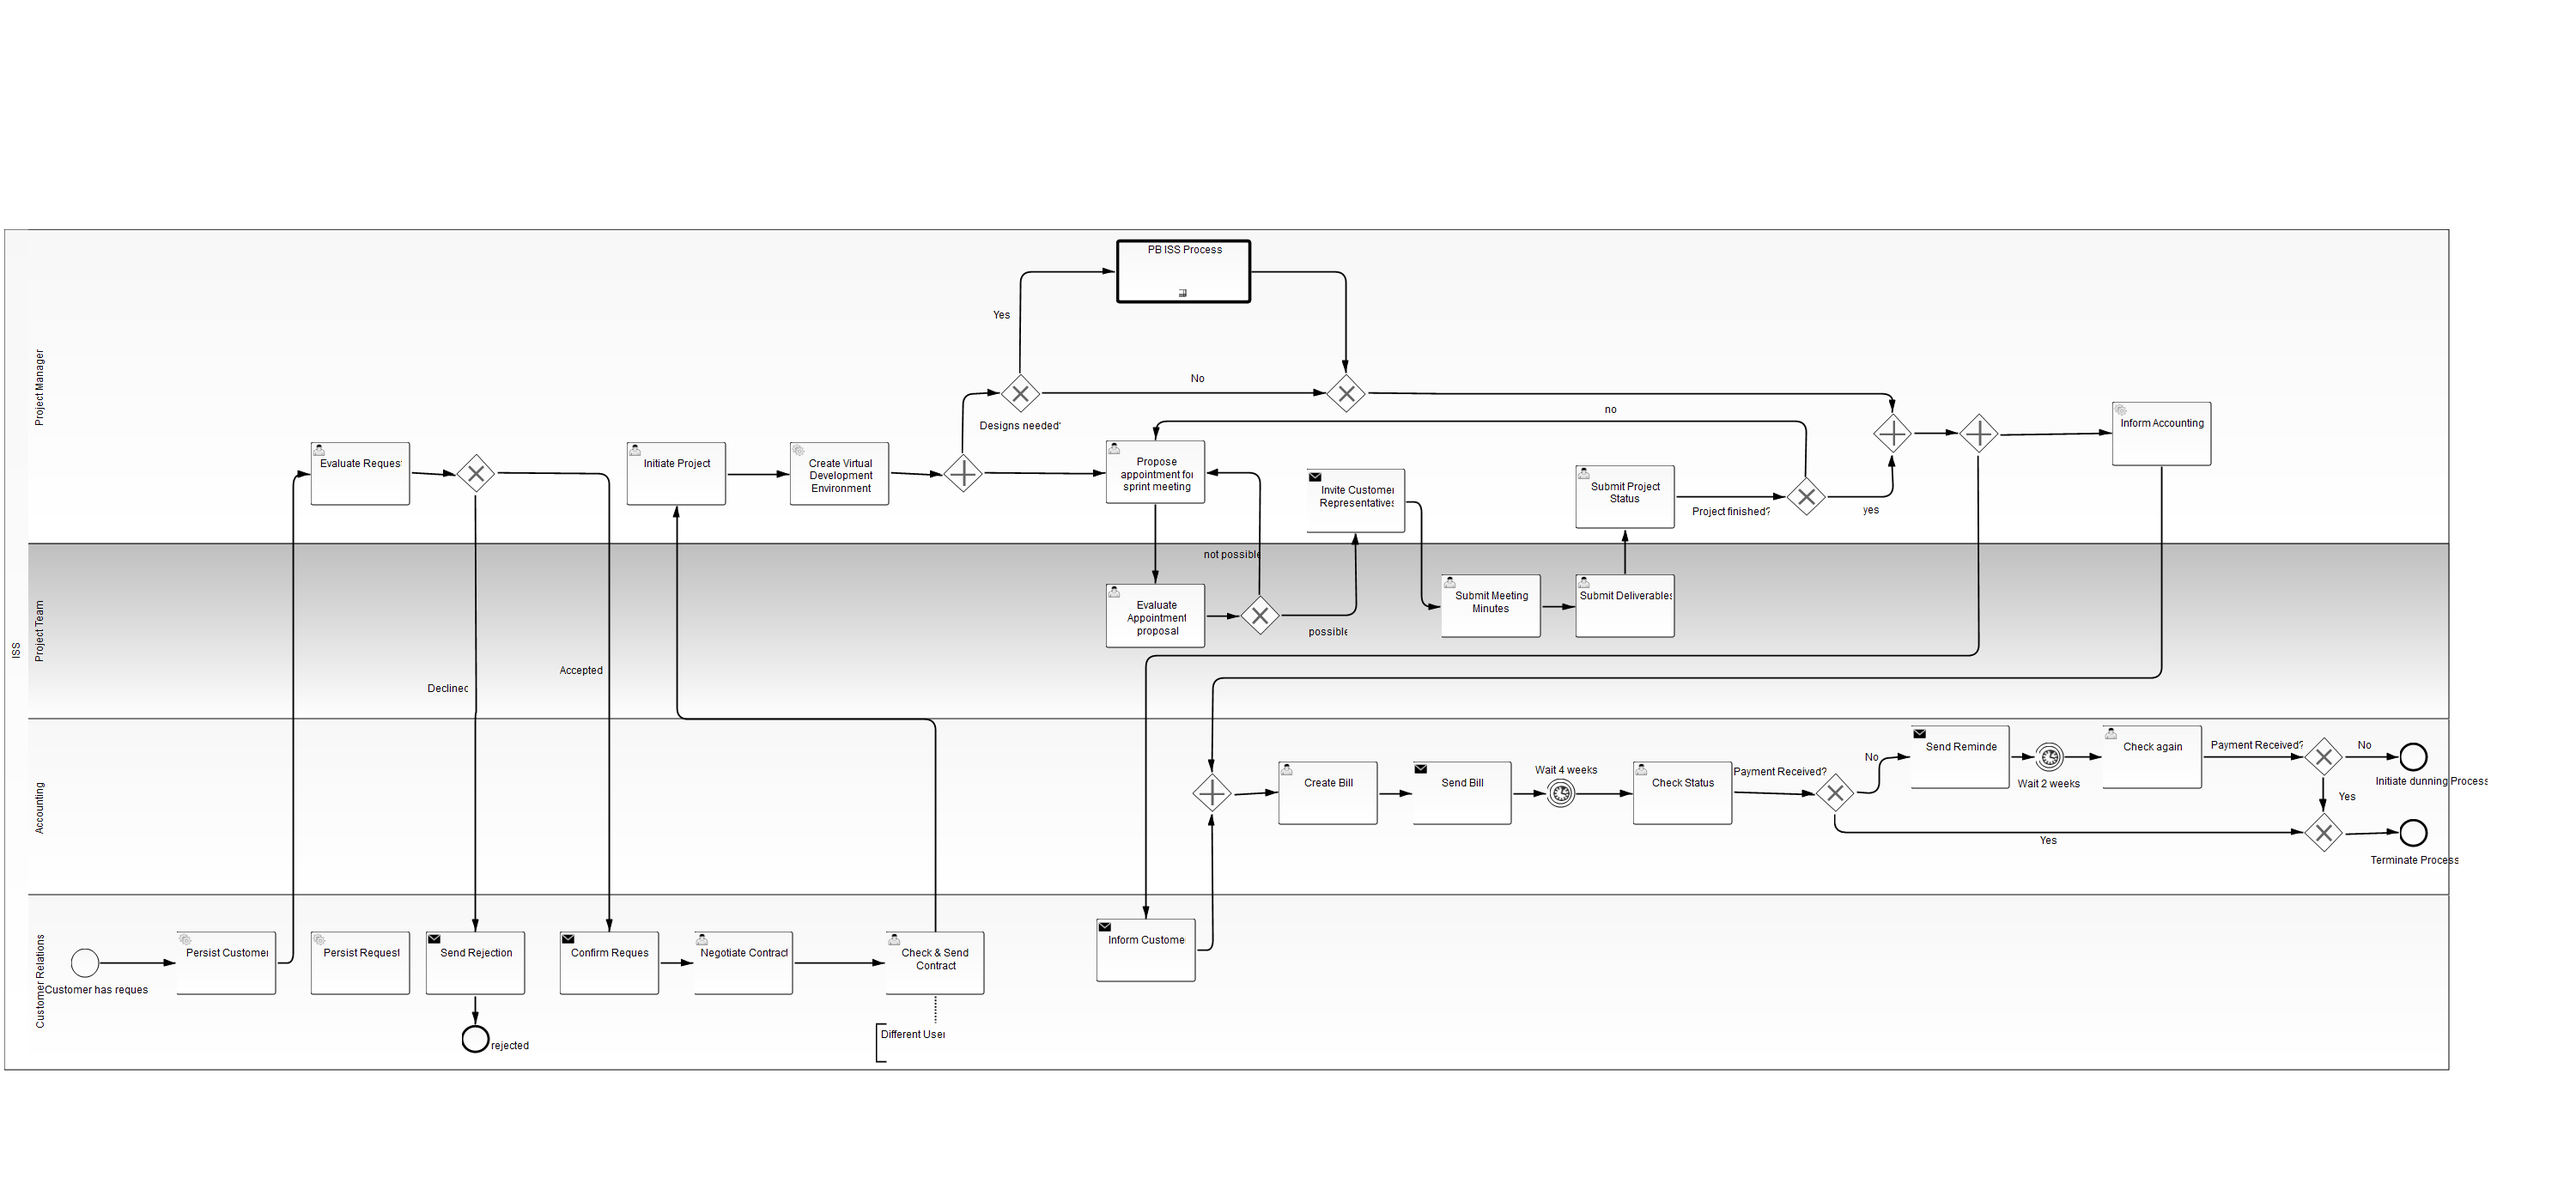
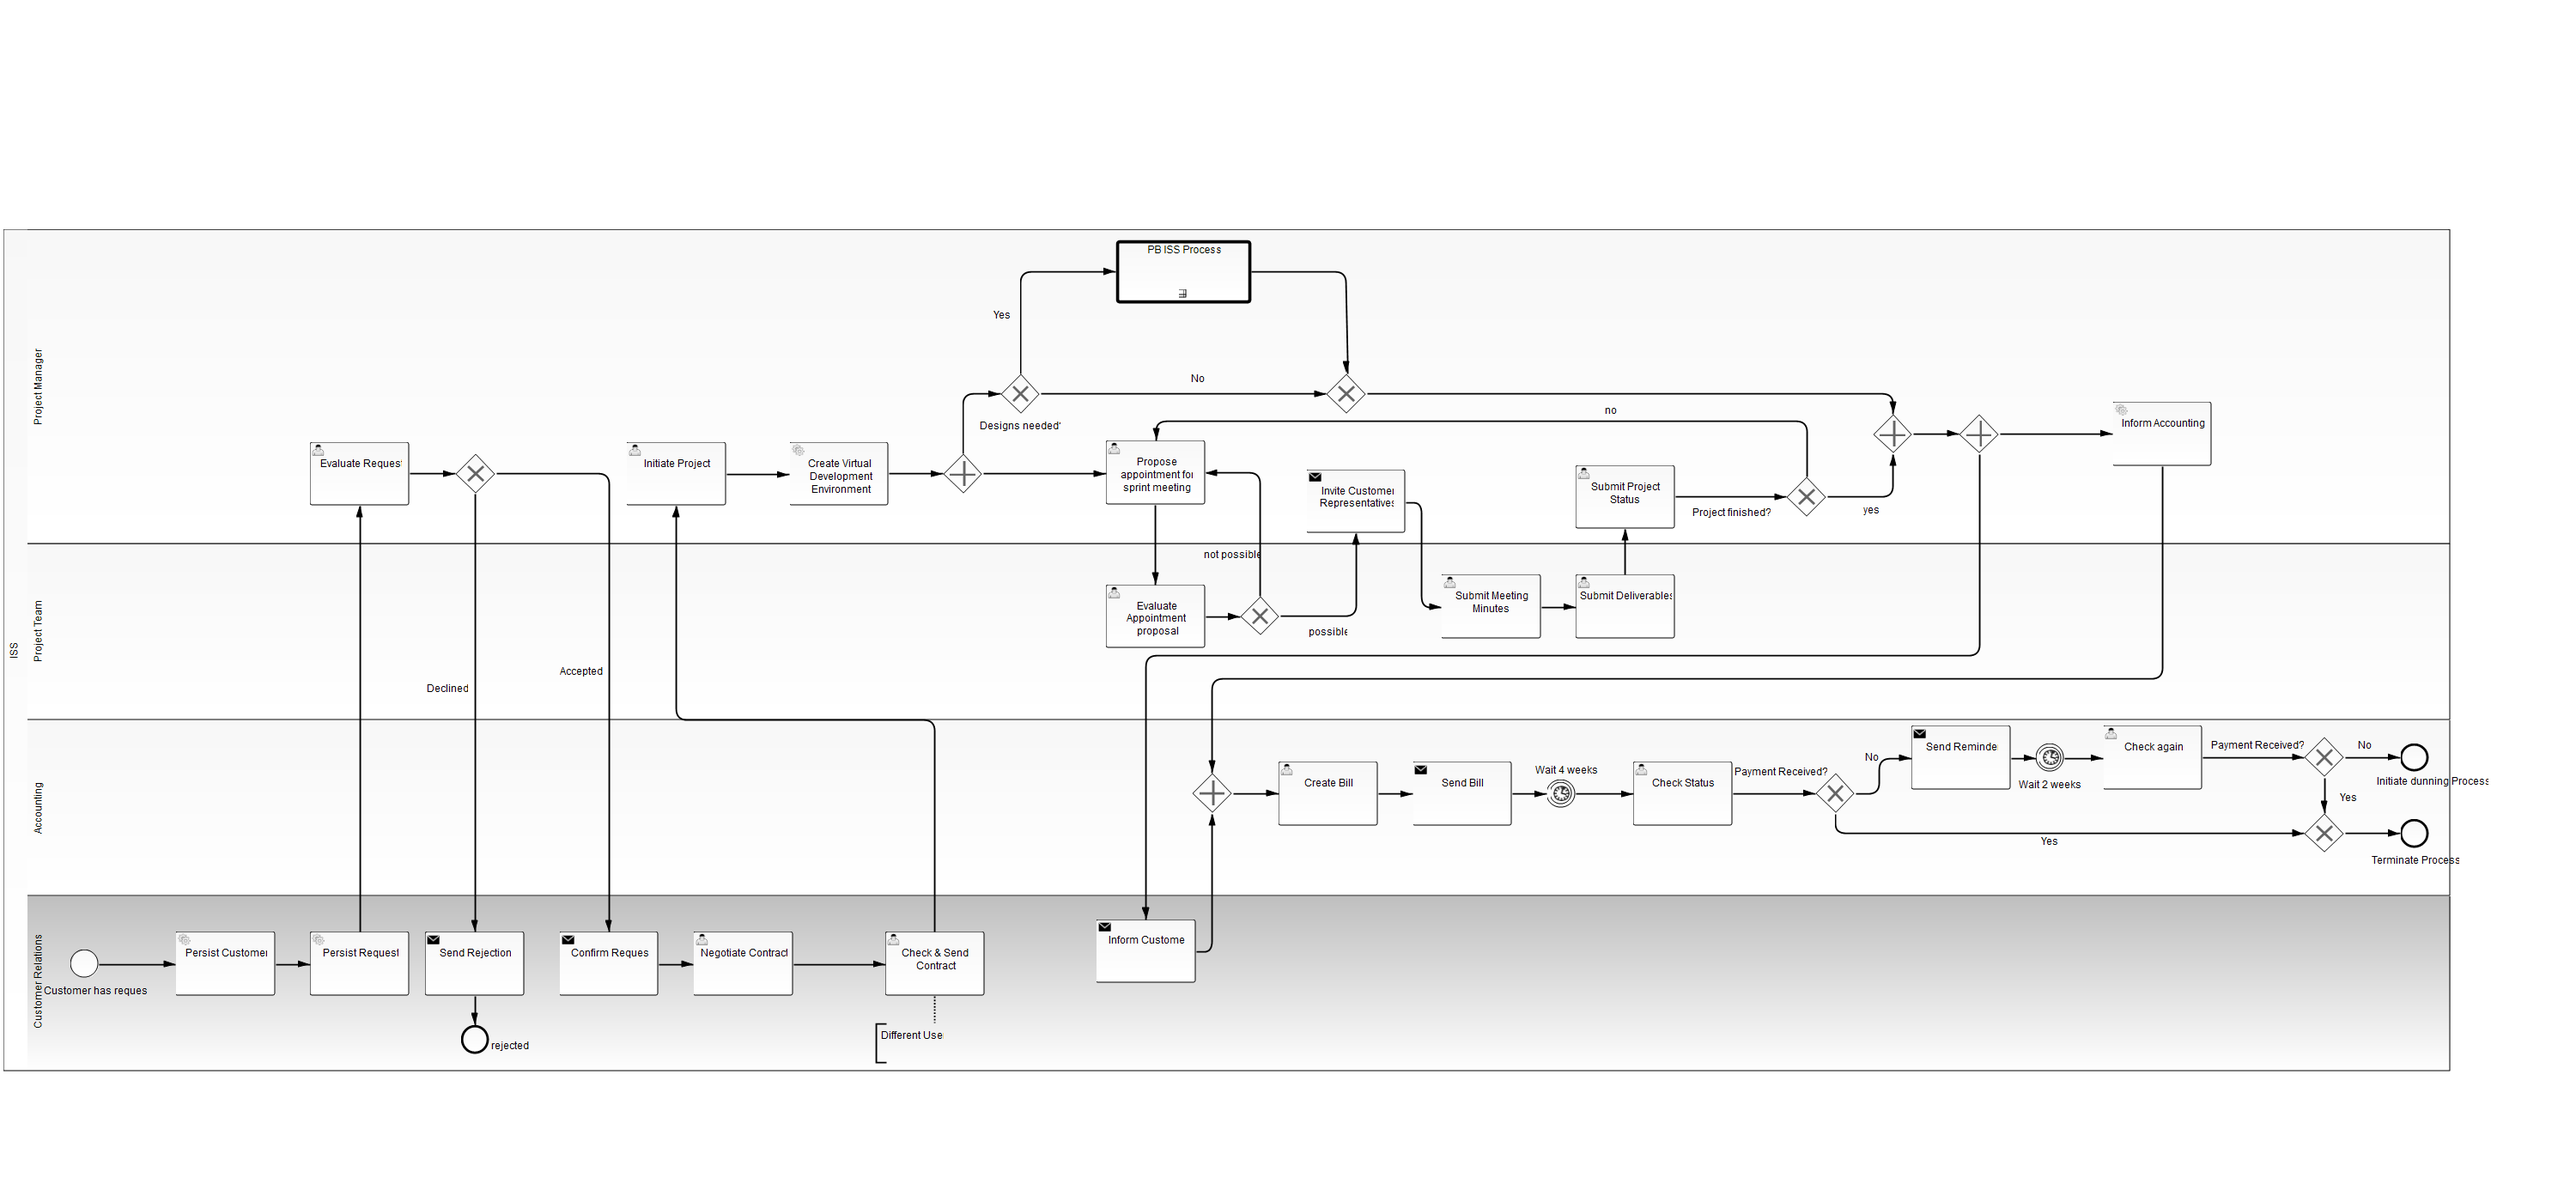
attached PersistCustomerRequest Service Task and adjusted evaluateCustomerRequest.xhtml

diff --git a/iss-project/src/main/java/org/camunda/bpm/iss/web/EvaluateRequestController.java b/iss-project/src/main/java/org/camunda/bpm/iss/web/EvaluateRequestController.java
@@ -33,39 +33,45 @@ public class EvaluateRequestController implements Serializable{
 	  @PersistenceContext
 	  private EntityManager entityManager;
 	 
-	  // Inject the Logic 
+	  // Inject the Service 
 	  @Inject
-	  private CustomerRequestService customerRequestLogic;
+	  private CustomerRequestService customerRequestService;
 	  @Inject
-	  private CustomerService customerLogic;
+	  private CustomerService customerService;
 	 
 	  // Caches the Entities during the conversation
 	  private CustomerRequest customerRequestEntity;
 	  private Customer customerEntity;
 	 
-	  /**
+	  
 	  public CustomerRequest getCustomerRequestEntity() {
 	    if (customerRequestEntity == null) {
 	      // Load the entity from the database if not already cached
-	      customerRequestEntity = customerRequestLogic.getCustomerRequest((Long) businessProcess.getVariable("customerRequestId"));
+	      LOGGER.log(Level.INFO, "This is customerRequestId from businessProcess: " + businessProcess.getVariable("customerRequestId")); 
+		  LOGGER.log(Level.INFO, "This is the same casted as Long: " + (Long) businessProcess.getVariable("customerRequestId"));
+		  LOGGER.log(Level.INFO, "This is getCustomer from the Service invoked with it " + customerRequestService.getCustomerRequest((Long) businessProcess.getVariable("customerRequestId")));
+	      customerRequestEntity = customerRequestService.getCustomerRequest((Long) businessProcess.getVariable("customerRequestId"));
 	    }
 	    return customerRequestEntity;
 	  }
-	  **/
+	  
 	  
 	  public Customer getCustomerEntity() {
 		    if (customerEntity == null) {
 		      // Load the entity from the database if not already cached
 		    LOGGER.log(Level.INFO, "This is customerId from businessProcess: " + businessProcess.getVariable("customerId")); 
 		    LOGGER.log(Level.INFO, "This is the same casted as Long: " + (Long) businessProcess.getVariable("customerId"));
-		    LOGGER.log(Level.INFO, "This is getCustomer from the Service invoked with it " + customerLogic.getCustomer((Long) businessProcess.getVariable("customerId")));
-		    customerEntity = customerLogic.getCustomer((Long) businessProcess.getVariable("customerId"));
+		    LOGGER.log(Level.INFO, "This is getCustomer from the Service invoked with it " + customerService.getCustomer((Long) businessProcess.getVariable("customerId")));
+		    customerEntity = customerService.getCustomer((Long) businessProcess.getVariable("customerId"));
 		    }
 		    return customerEntity;
-		  }
+	  }
 	 
-	  public void submitForm() throws IOException {
+	  public void confirmRequest() throws IOException {
 	    // Do something awesome in here
 	  }
 	
+	  public void declineRequest() throws IOException{
+		//Decline Request and send a
+	  }
 }

diff --git a/iss-project/src/main/java/org/camunda/bpm/iss/ejb/CustomerRequestService.java b/iss-project/src/main/java/org/camunda/bpm/iss/ejb/CustomerRequestService.java
@@ -13,13 +13,13 @@ import javax.persistence.PersistenceContext;
 
 import org.camunda.bpm.engine.cdi.jsf.TaskForm;
 import org.camunda.bpm.engine.delegate.DelegateExecution;
-import org.camunda.bpm.iss.entity.Customer;
 import org.camunda.bpm.iss.entity.CustomerRequest;
 
 
 @Stateless
 @Named
 public class CustomerRequestService {
+	@Inject
 	CustomerService customerService;
 	
 	 @PersistenceContext
@@ -62,7 +62,7 @@ public class CustomerRequestService {
 	  }
 
 
-	  public CustomerRequest getCustomerRequest(long customerRequestId) {
+	  public CustomerRequest getCustomerRequest(Long customerRequestId) {
 		  // Load entity from database
 		  return entityManager.find(CustomerRequest.class, customerRequestId);
 	  }

diff --git a/iss-project/src/main/java/org/camunda/bpm/iss/entity/Customer.java b/iss-project/src/main/java/org/camunda/bpm/iss/entity/Customer.java
@@ -22,7 +22,7 @@ public class Customer implements Serializable {
 	  
 	  protected String name;
 	  protected String address;
-	  protected String eMail;
+	  protected String email;
 	  
 	 
 	  public Long getId() {
@@ -56,12 +56,12 @@ public class Customer implements Serializable {
 	  public void setAddress(String address) {
 	    this.address = address;
 	  }	  
-	  public String geteMail() {
-			return eMail;
+	  public String getEmail() {
+			return email;
 		}
 
-		public void seteMail(String eMail) {
-			this.eMail = eMail;
+		public void setEmail(String email) {
+			this.email = email;
 		}
 
 	}

diff --git a/iss-project/src/main/java/org/camunda/bpm/iss/entity/CustomerRequest.java b/iss-project/src/main/java/org/camunda/bpm/iss/entity/CustomerRequest.java
@@ -1,12 +1,14 @@
 package org.camunda.bpm.iss.entity;
 
+import java.io.Serializable;
+
+import javax.persistence.Entity;
 import javax.persistence.GeneratedValue;
 import javax.persistence.Id;
 import javax.persistence.ManyToOne;
 import javax.persistence.Version;
 
-import java.io.Serializable;
-
+@Entity
 public class CustomerRequest implements Serializable {
 
 	private static  final long serialVersionUID = 1L;

diff --git a/iss-project/src/main/java/org/camunda/bpm/iss/ejb/CustomerService.java b/iss-project/src/main/java/org/camunda/bpm/iss/ejb/CustomerService.java
@@ -41,7 +41,7 @@ public class CustomerService {
 	    // Set order attributes
 	    customerEntity.setName((String) variables.get("name"));
 	    customerEntity.setAddress((String) variables.get("address"));
-	    customerEntity.seteMail((String) variables.get("eMail"));
+	    customerEntity.setEmail((String) variables.get("email"));
 	 
 	    /*
 	      Persist customer instance and flush. After the flush the

diff --git a/iss-project/src/main/java/org/camunda/bpm/iss/entity/Deliverable.java b/iss-project/src/main/java/org/camunda/bpm/iss/entity/Deliverable.java
@@ -3,6 +3,7 @@ import java.io.Serializable;
 
 import javax.persistence.*;
 
+@Entity
 public class Deliverable implements Serializable {
 	
 	private static final long serialVersionUID = 1L;
